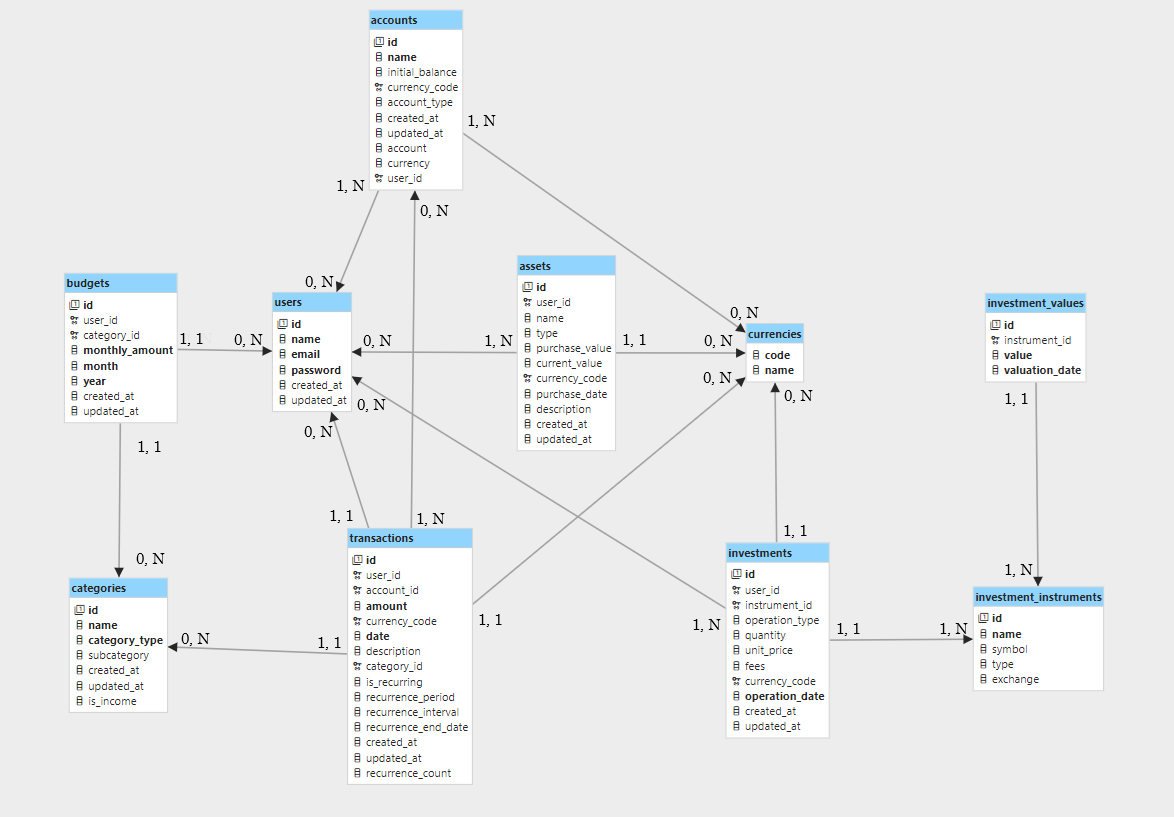
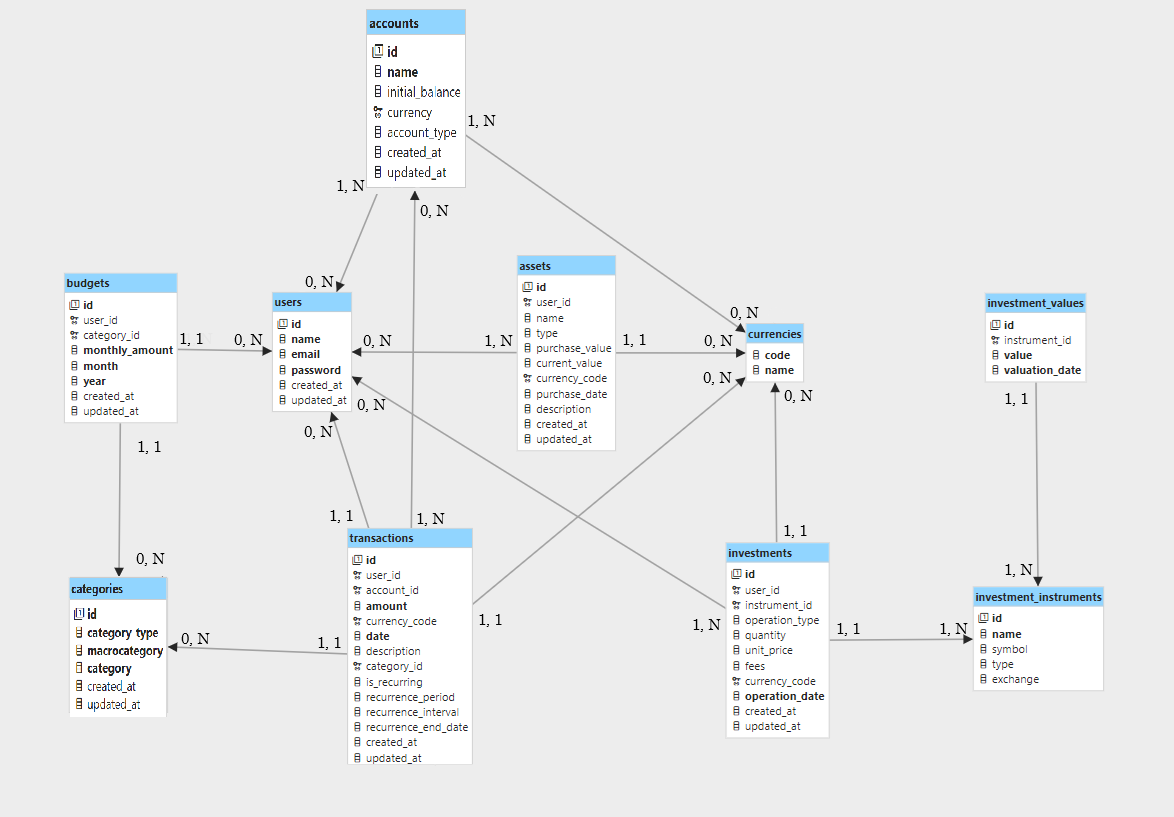
update configurations and db schema

Changed region(s): [[0.3066, 0.0, 0.3986, 0.2448], [0.0613, 0.7038, 0.1533, 0.8874], [0.3066, 0.918, 0.3986, 0.9486]]

diff --git a/database/DB_Capitally_Schema_EN.md b/database/DB_Capitally_Schema_EN.md
@@ -1,8 +1,6 @@
 
 # 📦 Capitally - Database Schema (English Version)
 
-This document describes the full logical schema of the Capitally project, using English naming conventions.
-
 ---
 
 ## 🔵 Main Tables
@@ -21,7 +19,7 @@ This document describes the full logical schema of the Capitally project, using 
 - `id` (PK)
 - `name`
 - `initial_balance`
-- `currency_code` (FK → currencies.code)
+- `currency` (FK)
 - `account_type` (e.g., checking, savings, investment)
 - `created_at`
 - `updated_at`
@@ -29,32 +27,28 @@ This document describes the full logical schema of the Capitally project, using 
 ---
 
 ### 🔗 user_accounts
-Many-to-many relationship between users and accounts.
-
-- `user_id` (FK → users.id)
-- `account_id` (FK → accounts.id)
+- `user_id` (FK)
+- `account_id` (FK)
 - PK: (`user_id`, `account_id`)
 
 ---
 
 ### 🗂 categories
 - `id` (PK)
-- `name`
 - `category_type` (Income/Expense)
-- `subcategory` (nullable)
+- `macrocategory`
+- `category`
 - `created_at`
 - `updated_at`
 
 ---
 
 ### 💸 transactions
-Includes both standard and recurring transactions.
-
 - `id` (PK)
 - `user_id` (FK)
 - `account_id` (FK)
 - `amount`
-- `currency_code` (FK → currencies.code)
+- `currency` (FK)
 - `date`
 - `description`
 - `category_id` (FK)
@@ -82,15 +76,13 @@ Includes both standard and recurring transactions.
 ### 📈 investment_instruments
 - `id` (PK)
 - `name`
-- `symbol`
 - `type` (ETF, Stock, Crypto, etc.)
 - `exchange`
+- `symbol`
 
 ---
 
 ### 💼 investments
-Represents a single buy or sell operation.
-
 - `id` (PK)
 - `user_id` (FK)
 - `instrument_id` (FK)
@@ -98,7 +90,7 @@ Represents a single buy or sell operation.
 - `quantity`
 - `unit_price`
 - `fees`
-- `currency_code` (FK)
+- `currency` (FK)
 - `operation_date`
 - `created_at`
 - `updated_at`
@@ -120,7 +112,7 @@ Represents a single buy or sell operation.
 - `type` (Home, Car, Object, etc.)
 - `purchase_value`
 - `current_value`
-- `currency_code` (FK)
+- `currency` (FK)
 - `purchase_date`
 - `description`
 - `created_at`
@@ -152,7 +144,3 @@ Represents a single buy or sell operation.
 - `investment_instruments` 1:N `investments`, `investment_values`
 - `currencies` 1:N in `accounts`, `transactions`, `investments`, `assets`
 - `currencies` 1:N `exchange_rates`
-
----
-
-*Automatically generated schema documentation.*

diff --git a/database/DB_Capitally_Schema.md b/database/DB_Capitally_Schema.md
@@ -1,6 +1,7 @@
 
 # 📦 Capitally - Schema Database
 
+---
 
 ## 🔵 Tabelle principali
 
